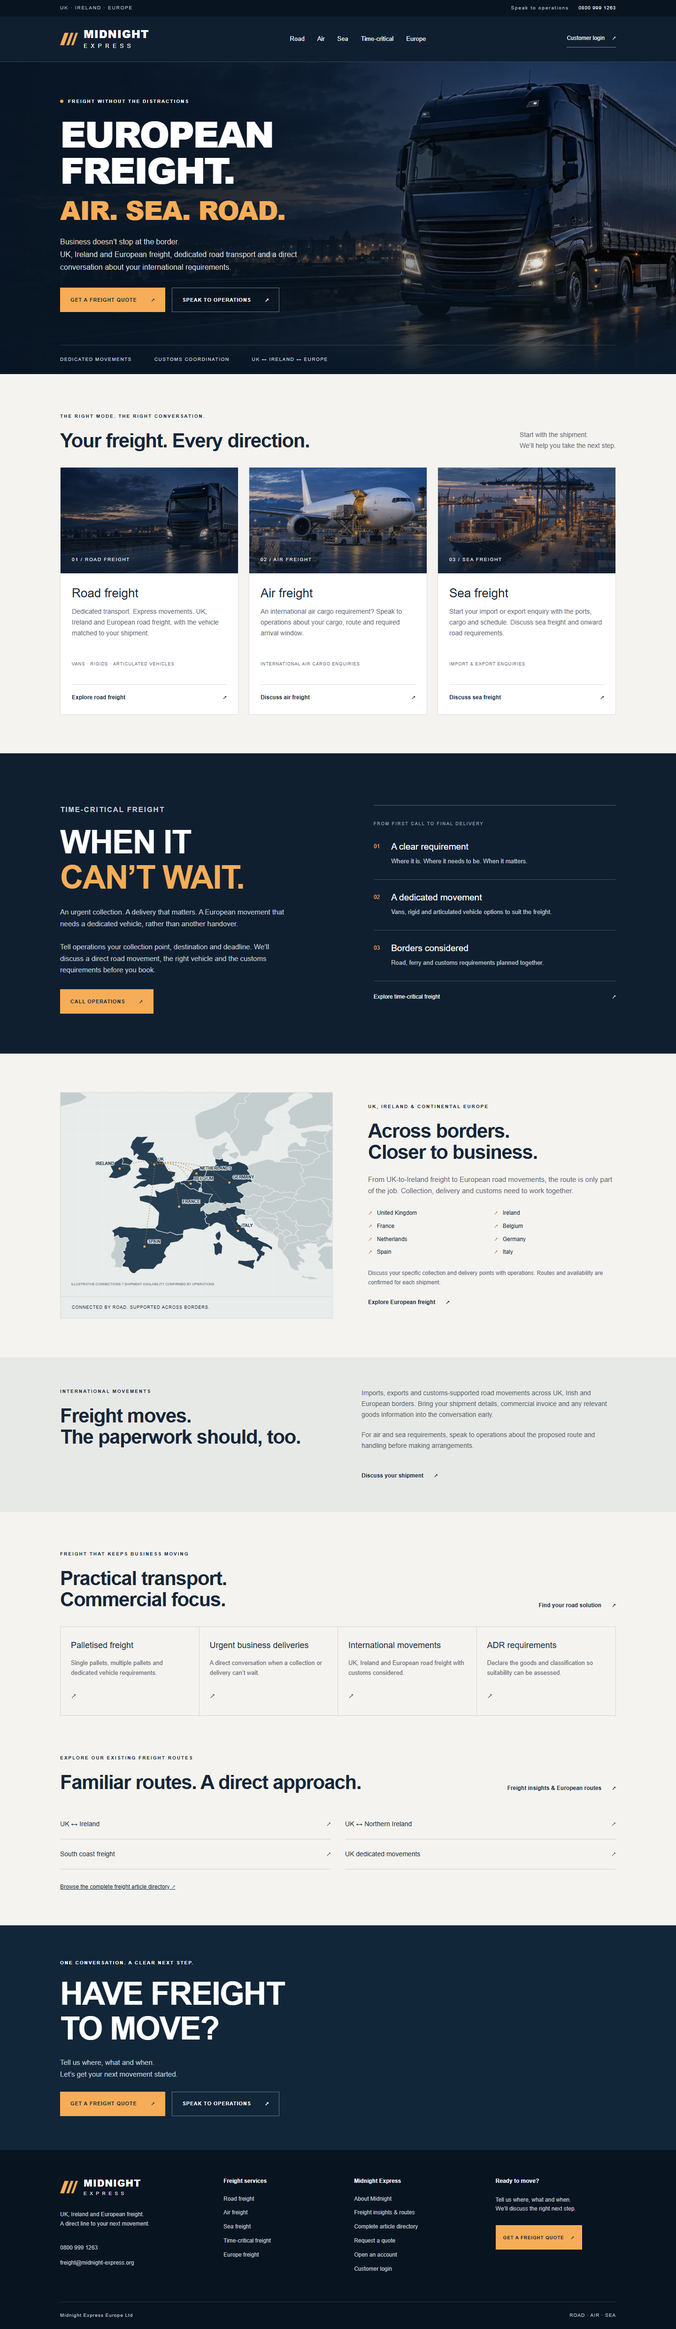
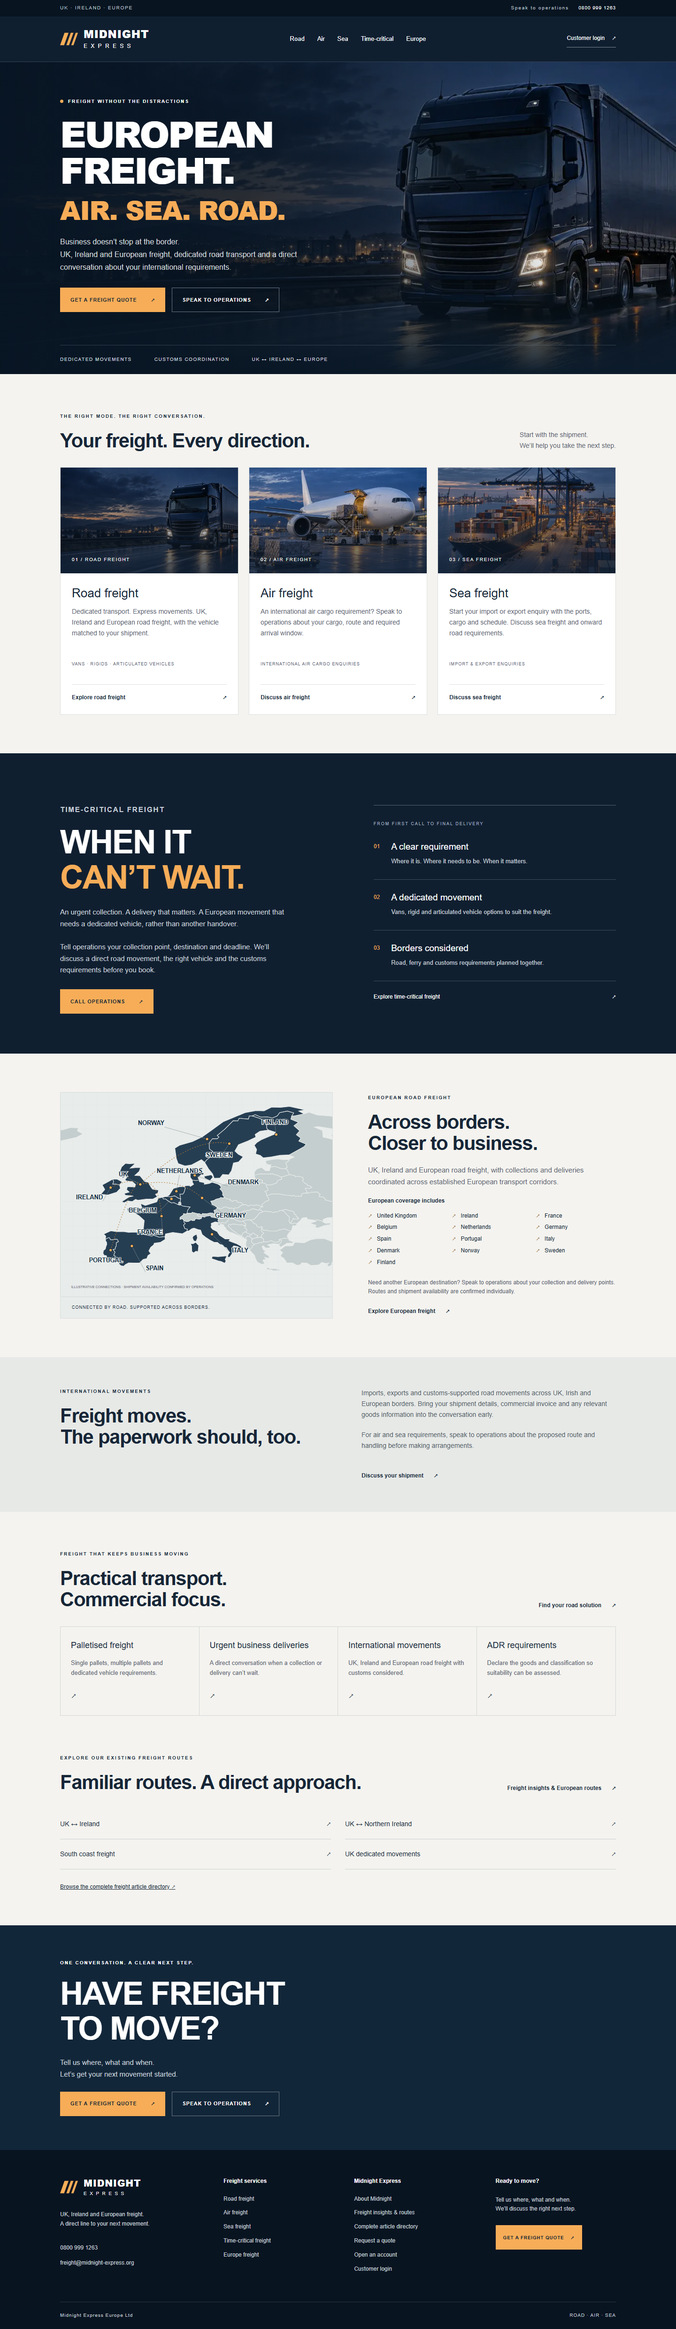
fix: expand European coverage to Portugal and Nordics

Changed region(s): [[0.1562, 0.4661, 0.5, 0.5593], [0.5312, 0.4661, 0.8438, 0.5593], [0.0938, 0.4661, 0.125, 0.4972]]

diff --git a/lib/freightContent.js b/lib/freightContent.js
@@ -3,5 +3,5 @@ export const serviceContent = {
  'air-freight':{name:'Air freight',eyebrow:'INTERNATIONAL AIR CARGO ENQUIRIES',title:'Air Freight & International Air Cargo Enquiries | Midnight Express',description:'Discuss an international air freight requirement with Midnight Express operations. Prepare cargo dimensions, weight, airports and delivery requirements for your enquiry.',heading:'Air cargo starts with a clear brief.',intro:'Have an international air freight requirement? Contact Midnight operations with the cargo, origin, destination and required arrival window. Specific routing, handling and availability are confirmed for each enquiry.',sections:[['Tell us what needs to move','Air cargo planning starts with the individual packages or pallets: their dimensions, weight and contents. Give the team the collection and delivery points as well as any preferred departure and arrival airports. This helps establish the handling and onward transport requirements before arrangements are made.'],['Explain the time requirement','An urgent delivery window and a flexible shipment require different conversations. State when the cargo will be ready and when it needs to arrive, including any time-zone differences. Do not assume a flight, airport acceptance, customs release or delivery time has been guaranteed until operations has confirmed the movement.'],['Keep the international details together','For import or export cargo, prepare the commercial goods information and explain whether you need collection or onward road delivery. Tell operations about unusual dimensions or regulated goods at the enquiry stage. Air service scope, eligibility and documentation must be checked for the proposed shipment.']],checklist:['Cargo description and package count','Dimensions and gross weight per piece','Origin, destination and any preferred airports','Cargo-ready date and required arrival window','Collection, customs and onward delivery requirements'],faqs:[['Can I book an air shipment through the road quote form?','No. Call or email operations to discuss an air freight requirement. The existing online quote is for road freight.'],['What details help with an air cargo enquiry?','Include the cargo dimensions and weight, origin and destination, cargo-ready date and required arrival window. Operations can then discuss the proposed arrangements.']],related:['road-freight','time-critical-freight'],image:'air'},
  'sea-freight':{name:'Sea freight',eyebrow:'IMPORT & EXPORT ENQUIRIES',title:'Sea Freight & Import Export Enquiries | Midnight Express',description:'Discuss sea freight requirements, cargo, ports, import/export documentation and onward road delivery with Midnight Express operations. Shipment arrangements confirmed individually.',heading:'Sea freight. Start with the whole journey.',intro:'For an import or export sea freight enquiry, bring the ports, cargo and schedule into one conversation. Discuss your shipment requirements and any onward road movement directly with operations.',sections:[['Begin with the cargo and ports','Provide the origin and destination, preferred ports where known, total volume, weight and a clear description of the goods. Explain whether the freight is palletised, packaged or already containerised. Container type, consolidation and handling requirements must be discussed for the individual enquiry.'],['Consider the movement beyond the port','A sea movement does not necessarily end at the terminal. Explain the collection point and final delivery address, along with unloading facilities and access restrictions. Midnight’s established road-freight options provide a useful starting point for discussing onward UK, Irish or European road requirements.'],['Prepare the import and export information','International freight needs accurate cargo and commercial information. Share the proposed shipping dates, commercial invoice details and any relevant customs requirements early. Sailing schedules, container arrangements and availability must be confirmed; the proposed arrangements are discussed for the individual shipment.']],checklist:['Origin, destination and preferred ports','Cargo description, packaging and pallet count','Total dimensions, volume and weight','Cargo-ready date and required delivery window','Import/export information and onward road needs'],faqs:[['What information is useful for containerised cargo?','Include the container or packaging details, cargo weight and volume, proposed ports and any onward delivery requirements. Discuss suitable arrangements with operations.'],['Does this page guarantee a sailing or delivery date?','No. Discuss the proposed movement and obtain confirmation of routing, handling and timing before making arrangements.']],related:['road-freight','european-freight'],image:'sea'},
  'time-critical-freight':{name:'Time-critical freight',eyebrow:'WHEN IT CAN’T WAIT',title:'Time Critical Freight & Dedicated Transport | Midnight Express',description:'Urgent UK, Ireland and European road freight. Discuss dedicated vehicles, express collection, direct delivery and customs-supported movements with Midnight Express.',heading:'When it can’t wait.',intro:'An urgent business movement needs a clear route to an operational decision. Tell Midnight where the freight is, where it needs to be and when it matters. Discuss a dedicated road movement directly with operations.',sections:[['A dedicated vehicle conversation','For urgent freight, start with the package or pallet details, loading facilities and the required collection window. Vans, rigid vehicles and articulated options appear in Midnight’s existing transport configuration. Operations can discuss suitability for your actual freight rather than assuming that one vehicle fits every job.'],['Direct delivery, with borders considered','UK, Ireland and European express movements can involve road legs, ferries and customs. Provide the full route and goods information early so these requirements can be considered together. A direct dedicated movement is an operational requirement to discuss, not a published guarantee that border or weather delays cannot occur.'],['One clear brief for an urgent requirement','Keep the collection contact, destination contact, cargo-ready time and delivery deadline together. If the requirement involves air or sea, explain that in your first conversation; specific mode and handling arrangements require confirmation. For an urgent job, calling operations is more useful than assuming the online road quote confirms availability.']],checklist:['Exact collection and delivery points','Cargo-ready time and required arrival time','Collection and delivery contact details','Pallets, dimensions, weight and loading access','Customs information and regulated goods details'],faqs:[['Do you guarantee a fixed transit time?','No universal transit-time guarantee is published here. Operations must confirm the proposed movement and any applicable conditions.'],['How should I start an urgent enquiry?','Call 0800 999 1263 with the route, freight details and deadline. You can also email freight@midnight-express.org.']],related:['road-freight','european-freight'],image:'road'},
- 'european-freight':{name:'European freight',eyebrow:'UK ↔ IRELAND ↔ EUROPE',title:'European Freight | UK Ireland & European Road Transport | Midnight Express',description:'UK to Europe and Europe to UK freight enquiries, including Ireland, France, Belgium, Netherlands, Germany, Spain and Italy. Dedicated road transport and customs support.',heading:'Across borders. Closer to business.',intro:'UK, Irish and European road freight with the collection, delivery and customs requirements considered together. Discuss the actual origin and destination rather than relying on a generic country-wide delivery promise.',sections:[['UK and Ireland freight corridors','The recovered Midnight service material includes UK-to-Ireland and Northern Ireland road/ferry corridors, including Liverpool–Dublin and Liverpool–Belfast. Existing route information remains available at its original URLs. Discuss the appropriate crossing, freight type and collection/delivery requirements with operations.'],['European road freight requirements','Existing country and route content covers France, Belgium, the Netherlands, Germany, Spain, Italy and wider Europe. For UK-to-Europe or Europe-to-UK freight, provide both postcodes, package or pallet details and the goods description. Specific routing, collection options and availability are confirmed for each movement.'],['An international movement needs an accurate brief','Make customs and import/export requirements part of the initial enquiry. Provide commercial invoice information and declare dangerous goods or other handling constraints early. For a movement involving air or sea, speak to operations about the proposed mode and any onward road delivery before booking.']],checklist:['Origin and destination country/postcode','Goods description and commercial information','Pallet count, dimensions and total weight','Collection and delivery windows','Customs, ADR and loading requirements'],faqs:[['Where can I find existing European route information?','Use the freight route links and the existing European route index. All recovered article URLs remain available.'],['Can I request a UK-to-Europe or Europe-to-UK movement?','Yes, discuss the specific route and cargo with operations. Availability and customs requirements must be confirmed for your shipment.']],related:['road-freight','time-critical-freight'],image:'road'}
+ 'european-freight':{name:'European freight',eyebrow:'UK ↔ IRELAND ↔ EUROPE',title:'European Freight | UK Ireland & European Road Transport | Midnight Express',description:'UK, Ireland and European road freight, including Portugal, Norway, Sweden, Denmark and Finland. Discuss collection, delivery and shipment availability with operations.',heading:'Across borders. Closer to business.',intro:'UK, Irish and European road freight with the collection, delivery and customs requirements considered together. Discuss the actual origin and destination rather than relying on a generic country-wide delivery promise.',sections:[['UK and Ireland freight corridors','The recovered Midnight service material includes UK-to-Ireland and Northern Ireland road/ferry corridors, including Liverpool–Dublin and Liverpool–Belfast. Existing route information remains available at its original URLs. Discuss the appropriate crossing, freight type and collection/delivery requirements with operations.'],['European road freight requirements','European coverage includes France, Belgium, the Netherlands, Germany, Spain, Portugal, Italy, Denmark, Norway, Sweden and Finland, alongside the UK and Ireland. For UK-to-Europe or Europe-to-UK freight, provide both postcodes, package or pallet details and the goods description. Specific routing, collection options and availability are confirmed for each movement.'],['Nordic freight in both directions','Discuss UK to Norway freight or a return movement from Norway to the UK with full collection and delivery postcodes. For Sweden, Denmark and Finland, the same individual planning applies to freight from the UK and movements back to the UK. Include pallet dimensions, gross weight, loading access and the cargo-ready date. Let operations know your required delivery window and any crossing preferences, so the proposed northern European road and ferry requirements can be assessed. Routes and shipment availability are confirmed individually.'],['UK and Portugal freight requirements','For UK to Portugal freight or Portugal to UK freight, provide both postcodes, the goods description and the consignment dimensions and weight. Include site access, loading arrangements and any collection or delivery timing constraints. This lets operations discuss the proposed road movement, any crossing requirements and relevant international documentation. Collection, routing and shipment availability are confirmed for the individual movement before booking.'],['An international movement needs an accurate brief','Make customs and import/export requirements part of the initial enquiry. Provide commercial invoice information and declare dangerous goods or other handling constraints early. For a movement involving air or sea, speak to operations about the proposed mode and any onward road delivery before booking.']],checklist:['Origin and destination country/postcode','Goods description and commercial information','Pallet count, dimensions and total weight','Collection and delivery windows','Customs, ADR and loading requirements'],faqs:[['Where can I find existing European route information?','Use the freight route links and the existing European route index. All recovered article URLs remain available.'],['Can I request a UK-to-Europe or Europe-to-UK movement?','Yes, discuss the specific route and cargo with operations. Availability and customs requirements must be confirmed for your shipment.']],related:['road-freight','time-critical-freight'],image:'road'}
 };

diff --git a/components/freight/FreightHomepage.js b/components/freight/FreightHomepage.js
@@ -12,7 +12,7 @@ export default function FreightHomepage(){return <FreightLayout title="UK & Euro
 <section className={s.hero} aria-labelledby="freight-heading"><Image src="/images/freight/road.webp" alt="" fill priority sizes="100vw" className={s.heroImage}/><div className={s.heroShade}/><div className={s.container}><div className={s.heroContent}><p className={s.eyebrow}><span/>FREIGHT WITHOUT THE DISTRACTIONS</p><h1 id="freight-heading">EUROPEAN<br/>FREIGHT.<br/><span>AIR. SEA. ROAD.</span></h1><p className={s.heroCopy}>Business doesn’t stop at the border.<br/>UK, Ireland and European freight, dedicated road transport and a direct conversation about your international requirements.</p><div className={s.actions}><QuoteLink/><a href={operationsPhone} className={s.outlineButton}>Speak to operations <Arrow/></a></div></div><div className={s.heroBottom}><span>DEDICATED MOVEMENTS</span><span>CUSTOMS COORDINATION</span><span>UK ↔ IRELAND ↔ EUROPE</span></div></div></section>
 <section className={`${s.section} ${s.services}`} aria-labelledby="services-heading"><div className={s.container}><div className={s.sectionHeading}><div><p className={s.eyebrow}>THE RIGHT MODE. THE RIGHT CONVERSATION.</p><h2 id="services-heading">Your freight. Every direction.</h2></div><p>Start with the shipment.<br/>We’ll help you take the next step.</p></div><div className={s.serviceGrid}>{services.map(v=><article className={s.serviceCard} key={v.id} id={v.id}><div className={s.serviceImage}><Image src={`/images/freight/${v.image}.webp`} alt={v.alt} fill sizes="(max-width: 700px) 100vw, 33vw"/><span>{v.number} / {v.name.toUpperCase()}</span></div><div className={s.serviceBody}><h3>{v.name}</h3><p>{v.text}</p><small>{v.tags}</small><Link href={'/'+v.id}>{v.link}<Arrow/></Link></div></article>)}</div></div></section>
 <section className={s.urgent} aria-labelledby="urgent-heading"><div className={`${s.container} ${s.split}`}><div><p className={s.eyebrow}>TIME-CRITICAL FREIGHT</p><h2 id="urgent-heading">WHEN IT<br/><span>CAN’T WAIT.</span></h2><p>An urgent collection. A delivery that matters. A European movement that needs a dedicated vehicle, rather than another handover.</p><p>Tell operations your collection point, destination and deadline. We’ll discuss a direct road movement, the right vehicle and the customs requirements before you book.</p><a href={operationsPhone} className={s.button}>Call operations <Arrow/></a></div><div className={s.urgentPanel}><span className={s.panelLabel}>FROM FIRST CALL TO FINAL DELIVERY</span>{[['01','A clear requirement','Where it is. Where it needs to be. When it matters.'],['02','A dedicated movement','Vans, rigid and articulated vehicle options to suit the freight.'],['03','Borders considered','Road, ferry and customs requirements planned together.']].map(([n,title,text])=><div key={n}><span>{n}</span><section><h3>{title}</h3><p>{text}</p></section></div>)}<Link href="/time-critical-freight">Explore time-critical freight <Arrow/></Link></div></div></section>
-<section className={s.section} aria-labelledby="europe-heading"><div className={`${s.container} ${s.europeGrid}`}><div className={s.mapPanel}><Image src="/images/freight/europe.svg" alt="Illustrative map of the United Kingdom, Ireland and continental Europe, with key freight destinations marked" width={720} height={540} sizes="(max-width: 850px) 100vw, 50vw"/><span>CONNECTED BY ROAD. SUPPORTED ACROSS BORDERS.</span></div><div><p className={s.eyebrow}>UK, IRELAND & CONTINENTAL EUROPE</p><h2 id="europe-heading">Across borders.<br/>Closer to business.</h2><p>From UK-to-Ireland freight to European road movements, the route is only part of the job. Collection, delivery and customs need to work together.</p><ul className={s.countries}>{['United Kingdom','Ireland','France','Belgium','Netherlands','Germany','Spain','Italy'].map(v=><li key={v}>{v}</li>)}</ul><p className={s.smallText}>Discuss your specific collection and delivery points with operations. Routes and availability are confirmed for each shipment.</p><Link className={s.textLink} href="/european-freight">Explore European freight <Arrow/></Link></div></div></section>
+<section className={s.section} aria-labelledby="europe-heading"><div className={`${s.container} ${s.europeGrid}`}><div className={s.mapPanel}><Image src="/images/freight/europe.svg" alt="Illustrative European coverage map, including Portugal and the Nordic countries alongside the UK, Ireland and continental Europe" width={720} height={540} sizes="(max-width: 850px) 100vw, 50vw"/><span>CONNECTED BY ROAD. SUPPORTED ACROSS BORDERS.</span></div><div><p className={s.eyebrow}>EUROPEAN ROAD FREIGHT</p><h2 id="europe-heading">Across borders.<br/>Closer to business.</h2><p>UK, Ireland and European road freight, with collections and deliveries coordinated across established European transport corridors.</p><p className={s.coverageLabel}>European coverage includes</p><ul className={s.countries} aria-label="Examples of European coverage">{['United Kingdom','Ireland','France','Belgium','Netherlands','Germany','Spain','Portugal','Italy','Denmark','Norway','Sweden','Finland'].map(v=><li key={v}>{v}</li>)}</ul><p className={s.smallText}>Need another European destination? Speak to operations about your collection and delivery points. Routes and shipment availability are confirmed individually.</p><Link className={s.textLink} href="/european-freight">Explore European freight <Arrow/></Link></div></div></section>
 <section className={s.customs}><div className={`${s.container} ${s.customsGrid}`}><div><p className={s.eyebrow}>INTERNATIONAL MOVEMENTS</p><h2>Freight moves.<br/>The paperwork should, too.</h2></div><div><p>Imports, exports and customs-supported road movements across UK, Irish and European borders. Bring your shipment details, commercial invoice and any relevant goods information into the conversation early.</p><p>For air and sea requirements, speak to operations about the proposed route and handling before making arrangements.</p><a href={operationsEmail} className={s.textLink}>Discuss your shipment <Arrow/></a></div></div></section>
 <section className={s.section}><div className={s.container}><div className={s.sectionHeading}><div><p className={s.eyebrow}>FREIGHT THAT KEEPS BUSINESS MOVING</p><h2>Practical transport.<br/>Commercial focus.</h2></div><Link href="/road-freight" className={s.textLink}>Find your road solution <Arrow/></Link></div><div className={s.freightTypes}>{[['Palletised freight','Single pallets, multiple pallets and dedicated vehicle requirements.'],['Urgent business deliveries','A direct conversation when a collection or delivery can’t wait.'],['International movements','UK, Ireland and European road freight with customs considered.'],['ADR requirements','Declare the goods and classification so suitability can be assessed.']].map(([title,text])=><article key={title}><h3>{title}</h3><p>{text}</p><span aria-hidden="true">↗</span></article>)}</div></div></section>
 <section className={s.routeSection}><div className={s.container}><div className={s.sectionHeading}><div><p className={s.eyebrow}>EXPLORE OUR EXISTING FREIGHT ROUTES</p><h2>Familiar routes. A direct approach.</h2></div><Link href="/blog" className={s.textLink}>Freight insights & European routes <Arrow/></Link></div><div className={s.corridors}>{corridors.map(([title,slug])=><Link href={'/freight/'+slug} key={slug}>{title}<Arrow/></Link>)}</div><Link className={s.directoryLink} href="/freight-resources">Browse the complete freight article directory <Arrow/></Link></div></section>

diff --git a/styles/Freight.module.css b/styles/Freight.module.css
@@ -6,3 +6,7 @@
 @media(prefers-reduced-motion:reduce){.site *{scroll-behavior:auto!important;transition:none!important;animation:none!important}}
 
 .footerGrid>div:first-child>a:not(.brand){display:inline-block;min-height:32px;line-height:32px}
+
+.countries{grid-template-columns:repeat(3,1fr);gap:5px 8px;margin:12px 0 14px}
+.europeGrid .coverageLabel{font-size:12px!important;font-weight:700;color:var(--ink)!important;margin-top:18px!important}
+@media(max-width:700px){.countries{grid-template-columns:repeat(2,1fr)}}

diff --git a/docs/HOMEPAGE-PREVIEW.md b/docs/HOMEPAGE-PREVIEW.md
@@ -32,3 +32,9 @@ Shared Express Pallets/Lithium Battery homepages are preserved through explicit 
 Existing suite: 50/50 tests. Root/app TypeScript and production build are checked. Route, shared-host and live-domain evidence, browser/axe results, secret review and screenshots are recorded in `artifacts/homepage-preview` and `.cache/validation`. Automated checks are not formal accessibility certification. Browser testing submits no enquiry and performs no payment, Xero or Supabase write. Vercel deployment is Preview-only in the existing Midnight project; deployment details are recorded separately after creation. DNS and production domains are not changed. The untracked Supabase Deno configuration remains excluded.
 
 Final local validation: **50/50 tests**, both TypeScript checks, **161/161** build pages, all 23 recovered patterns present, all 2,352 articles retained, 33 route/resource checks, four shared-host homepage checks and six live-domain checks passed. Six metadata/structured-data pages and 16 unique homepage internal links passed. Desktop/mobile axe WCAG A/AA checks have zero violations; image-backed contrast incomplete cases were visually reviewed. Keyboard skip focus and mobile menu work. Widths 320, 390, 768 and 1440 have no horizontal overflow. All images load. Known private values have zero source/client matches. Screenshots capture the exact locally verified production build; preview-host checks are recorded separately.
+
+## Targeted European coverage correction
+
+Stuart approved the visual design and confirmed freight involving Portugal, Norway, Sweden, Denmark and Finland. The homepage retains its approved aesthetic and ?Across borders. Closer to business.? treatment. The map keeps its 720?540 aspect ratio, navy country fills, neutral background and amber styling, reframed to 73? north so the Nordic countries are fully visible. Thirteen countries are labelled with five illustrative connection lines, with no schedule, permanent lane, office or automatic-availability claim. The country list says ?European coverage includes? and invites enquiries for other European destinations, with individual operational confirmation retained. Desktop uses a compact three-column list; mobile uses two columns.
+
+The existing European freight page now includes useful Nordic and Portugal enquiry preparation for movements in both directions. No country doorway pages or new routes were created. Updated full-page/viewport screenshots and map-specific desktop/mobile captures are in `artifacts/homepage-preview`. The mobile map panel is approximately 306 pixels high; its aspect ratio is unchanged. Browser checks have zero detected exceptions, broken images, horizontal overflow or automated WCAG A/AA violations. The code correction is confined to the European homepage section, map, coverage-list styles and existing European service content. Deployment remains Preview-only.
